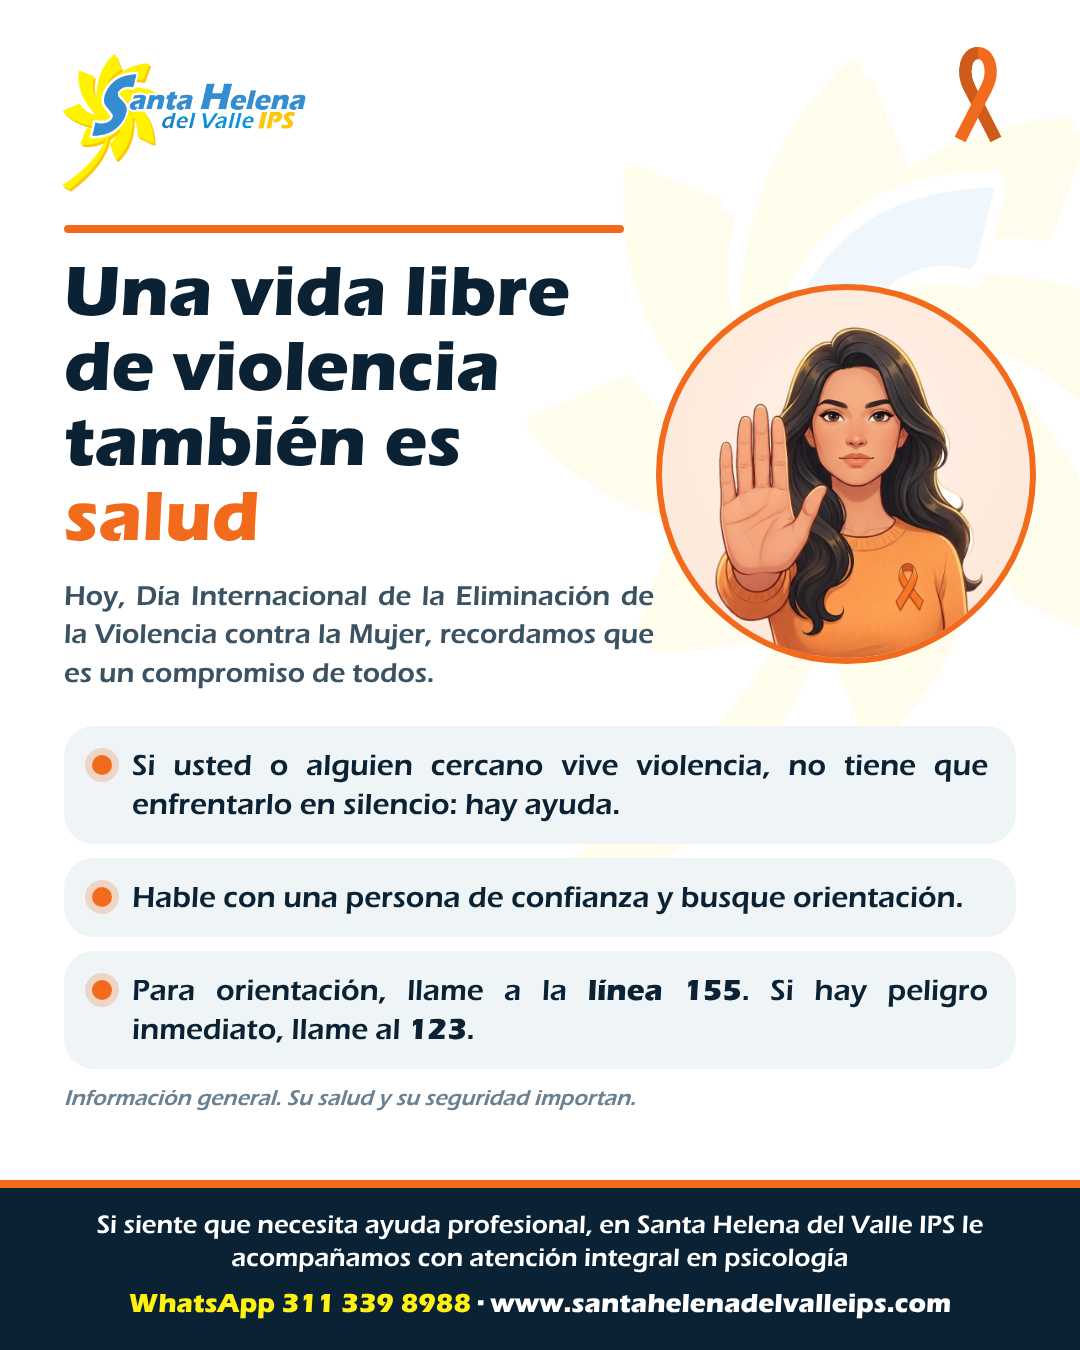
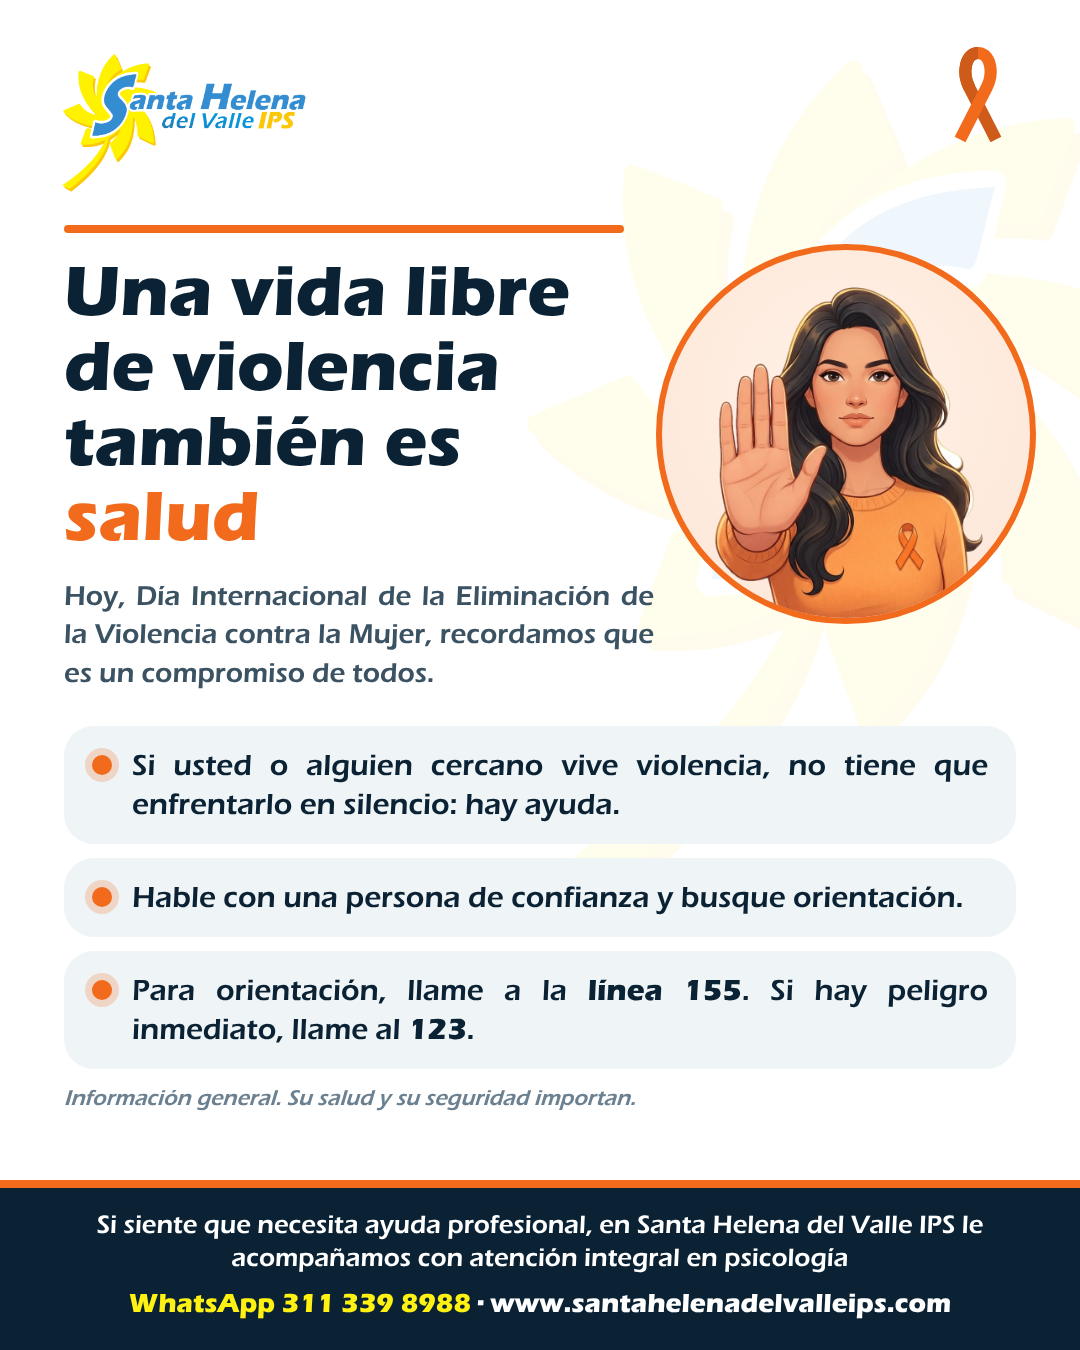
Post 25N: imagen un poco más arriba
Claude-Session: https://claude.ai/code/session_01KgBCaN2Nb7mn6jAyyriR7q

Changed region(s): [[0.5806, 0.1556, 0.9778, 0.4978]]

diff --git a/entregas/creativo-instagram/2026-11-25-post-violencia-contra-la-mujer/fuente/post.html b/entregas/creativo-instagram/2026-11-25-post-violencia-contra-la-mujer/fuente/post.html
@@ -51,6 +51,6 @@ li b{font-family:"Eras Bold ITC";font-weight:400}
 // la imagen queda centrada respecto al bloque título + texto corto
 addEventListener('load',()=>{const h=document.querySelector('h1').getBoundingClientRect(),a=document.querySelector('.apoyo').getBoundingClientRect(),
  e=document.querySelector('.escena'),pr=document.getElementById('post').getBoundingClientRect();
- e.style.top=((h.top+a.bottom)/2-pr.top-e.offsetHeight/2)+'px';document.body.dataset.listo=1;});
+ e.style.top=((document.querySelector('.linea').getBoundingClientRect().top+a.bottom)/2-pr.top-e.offsetHeight/2-25)+'px';document.body.dataset.listo=1;});
 if(new URLSearchParams(location.search).get('c')==='marca')document.getElementById('post').classList.add('marca');</script>
 </body></html>
